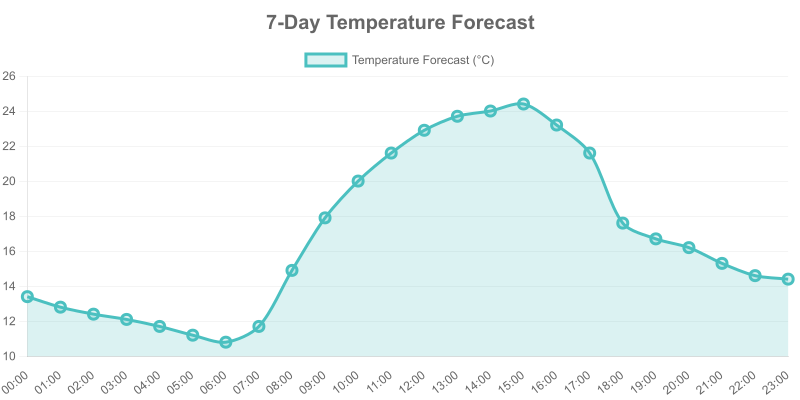
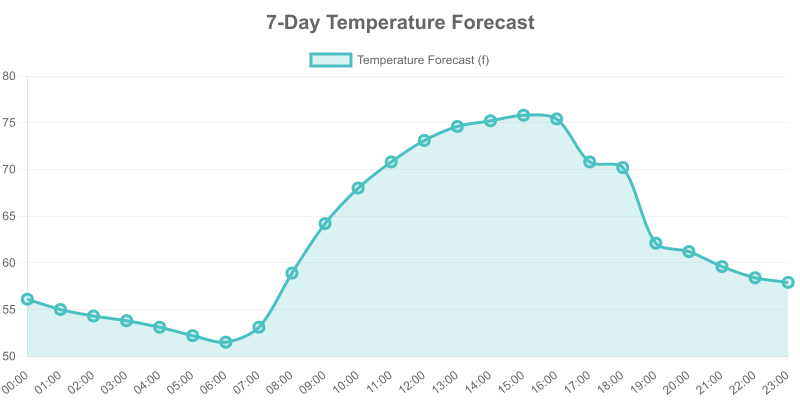
PUT: add Fahrenheit to hourlyCharts

diff --git a/src/index.js b/src/index.js
@@ -4,12 +4,13 @@ import { Command } from 'commander';
 import { fetchWeatherData } from './FetchApi.js';
 import { forecastSummary } from './Charts/index.js';
 import { generateHourlyChart } from './Charts/useChart.js';
+import dotenv from 'dotenv';
+dotenv.config({quiet:true}); // quiet true silents the logs
 const program  = new Command();
 
+const weather_api = process.env.WEATHER_API;
 
 program.name("Weather_CLI").description("CLI Tool to get the Weather Data.").version("1.0.0")
-
-
 program
 .command('current')
 .description('Get temperature in Celcius')
@@ -20,7 +21,7 @@ program
     if(options.fahrenheit){
         unit = 'f';
     }
-    let result = await fetchWeatherData(`https://api.weatherapi.com/v1/current.json`, CityName, unit);
+    let result = await fetchWeatherData(`${weather_api}/current.json`, CityName, unit);
     console.log(`The Temperature at Pune is ${unit=='c'?result.current.temp_c: result.current.temp_f} ${unit=='c'?"°C": "°F"}`);
 })
 
@@ -37,7 +38,7 @@ program
         unit = 'f';
     }
 
-    let weatherForecast = await fetchWeatherData(`https://api.weatherapi.com/v1/forecast.json`, CityName, unit);
+    let weatherForecast = await fetchWeatherData(`${weather_api}/forecast.json`, CityName, unit);
     if(options.forecastSummary){
         forecastSummary(weatherForecast, unit);
     }

diff --git a/src/Charts/useChart.js b/src/Charts/useChart.js
@@ -9,6 +9,13 @@ const hours = [
 
 export const generateHourlyChart = async(weatherData, unit) => {
     let hourlyData = weatherData.forecast.forecastday[0].hour
-    let temp = hourlyData.map((obj) => obj.temp_c)
-    await generateForecastChart(hours, temp)
+
+    let temp;
+    if(temp=='c'){
+        temp = hourlyData.map((obj) => obj.temp_c);
+    }
+    else{
+        temp = hourlyData.map((obj) => obj.temp_f);
+    }
+    await generateForecastChart(hours, temp, unit)
 }

diff --git a/src/FetchApi.js b/src/FetchApi.js
@@ -1,9 +1,9 @@
 
-const API_KEY = "da50daf2a3dc45428f254704260502"
+// const API_KEY = "da50daf2a3dc45428f254704260502"
 // const city = "Pune"
 
 export const fetchWeatherData = async(uri, city, unit) => {
-    let response = await fetch(`${uri}?key=${API_KEY}&q=${city}`)
+    let response = await fetch(`${uri}?key=${process.env.API_KEY}&q=${city}`)
     if(!response.ok){
         throw Error("Invalid Response")
     }

diff --git a/src/Charts/chart.js b/src/Charts/chart.js
@@ -12,7 +12,7 @@ export async function generateForecastChart(days, temps, unit = "°C") {
       labels: days,
       datasets: [
         {
-          label: `Temperature Forecast (${unit})`,
+          label: `Temperature Forecast (${unit=='c'?"°C":"°F"})`,
           data: temps,
           borderColor: "rgba(75, 192, 192, 1)",
           backgroundColor: "rgba(75, 192, 192, 0.2)",
